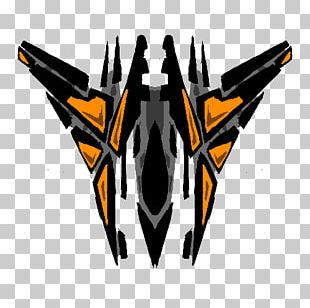
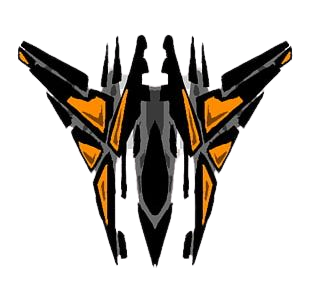
pinta jugador y enemigos con movimiento

diff --git a/js/classes.js b/js/classes.js
@@ -3,22 +3,93 @@
 class Background{
     constructor(w,h){
      //Dibujar en canvas x,y,w,h 
-     this.x =10;
-     this.y =10;
-     this.width = w;
-     this.height = h;
+     this.x =0;
+     this.y =0;
+     this.width = canvas.width;
+     this.height = canvas.height;
      //image
      //imagen de fondo
      this.image = new Image();
-        this.image.src = "../images/bg.jpg";
+        this.image.src = "images/bg.jpg";
 
     }
 
     update(){
-        console.log("update");
+    
         
 
-        ctx.drawImage(this.image,this.x,this.y);
+        ctx.drawImage(this.image,this.x,this.y,this.width,this.height);
 
     }
 }
+
+//spacecraft
+
+class Spacecraft1{
+    constructor (x,y,w,h){
+        this.x = x;
+        this.y = y;
+        this.width = w;
+        this.height = h;
+        this.image = new Image();
+        this.image.src = "images/spacecraft1.png"
+        
+    }
+    
+    update(){
+        ctx.drawImage(this.image,this.x,this.y,this.width,this.height)
+    }
+
+
+    collistion(){}
+}
+// let spacecraft1=document.querySelector(".spacecraft1")
+//         let body=document.querySelector("body")
+//         document.addEventListener("mousemove",(e)=>{
+//             spacecraft1.style.left=e.clientX+"px";
+//         })
+
+// Enemys 1
+
+class Enemy1{
+    constructor (x,y,w,h){
+        this.x = x;
+        this.y = y;
+        this.width = w;
+        this.height = h;
+        this.image = new Image();
+        this.image.src = "images/enemy1.png"
+        
+    }
+    
+    update(){
+        ctx.drawImage(this.image,this.x,this.y+=.3,this.width,this.height)
+    }
+
+
+    collistion(){}
+}
+
+// Enemys 1
+
+class Enemy2{
+    constructor (x,y,w,h){
+        this.x = x;
+        this.y = y;
+        this.width = w;
+        this.height = h;
+        this.image = new Image();
+        this.image.src = "images/enemy2.png"
+        
+    }
+    
+    update(){
+        ctx.drawImage(this.image,this.x,this.y+=.3,this.width,this.height)
+    }
+
+
+    collistion(){}
+}
+    
+
+    

diff --git a/js/script.js b/js/script.js
@@ -4,12 +4,18 @@ window.onload = function() {
     // var ctx = document.getElementById("my-canvas").getContext("2d");
     //llamar clase
     const bg = new Background(canvas.widht,canvas.height);
-    startGame();
+    const spacecraft1 = new Spacecraft1(300,500,80,80);
+    const enemy1 = new Enemy1(300,-80,80,80);
+    const enemy2 = new Enemy2(100,-80,80,80);
+
+
+    
     document.getElementById("start-button").onclick = function() {
-     
+        startGame();
+        setInterval(updateGame,6);
     };
   
-    function startGame() {
+    function startGame() {1
         
 
         //ejecuta updateGame
@@ -18,10 +24,52 @@ window.onload = function() {
     }
 
     function updateGame(){ // actualizar juego
+ctx.clearRect(0,0,canvas.width,canvas.height);
+        bg.update();
 
-        bg.update()
-
+        spacecraft1.update();
+        enemy1.update();
+        enemy2.update();
     }
-  
+
+
+    // addEventListener 
+    //addEventListener()
+  this.addEventListener("keydown", function(event){
+    if(event.keyCode == '37'){//Tecla con la flecha hacia la izquierda		
+        //alert('izquierda');
+        console.log(spacecraft1.x)
+
+        if(spacecraft1.x>=0){
+
+        spacecraft1.x-=6;
+        }
+     }
+
+     if(event.keyCode == '39'){ //Tecla con la flecha hacia la Derecha					
+       // alert('derecha =)');
+       console.log(spacecraft1.x)
+       if(spacecraft1.x<=canvas.width-80){
+        spacecraft1.x+=6;
+
+       
+       }
+     }
+     if(event.keyCode == '38'){//Tecla con la flecha hacia arriba		
+       // alert('arriba');
+       if(spacecraft1.y>=0){
+
+       spacecraft1.y-=6;
+       }
+     }
+     if(event.keyCode == '40'){ //Tecla con la flecha hacia abajo					
+        //alert('abajo =)');
+        if(spacecraft1.y<=canvas.height-80){
+
+        spacecraft1.y+=6;
+        }
+     }
+    console.log(event.keyCode);
+  })
   };
   

diff --git a/styles/styles.css b/styles/styles.css
@@ -11,7 +11,7 @@ body {
   
   body button {
     font-size: 20px;
-    background-color: rgba(231, 222, 58, 0.763);
+    background-color: rgba(250, 223, 18, 0.852);
     color: #fff;
     padding: 10px 20px;
     border: 0;
